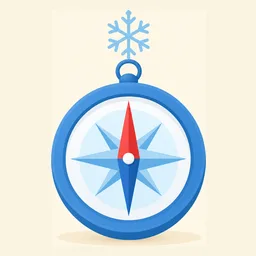
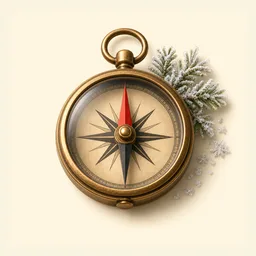
Continue targeted 1-4 grade art review

diff --git a/docs/proposals/art-review-1-4.md b/docs/proposals/art-review-1-4.md
@@ -13,9 +13,9 @@
 | Класс | Скрининг | Приоритет дальнейшей проверки/замены |
 |---|---|---|
 | 1 | Наиболее цельная группа: персонажи, животные и предметы в основном уже тёплые и объёмные. | Пока не перерисовывать пачкой. Уже обновлены/подтверждены `lisitsa`, `malchik`, `moskva`. |
-| 2 | Большинство предметов и сцен выдержаны в близком стиле, но есть отдельные более схематичные рисунки. | Точечно пересмотреть `metel` и `veter`; сначала сравнить в экране урока, не менять автоматически. `rossiya` обновлена. |
-| 3 | Самая заметная смесь: наряду с объёмными объектами встречаются условные схемы и пиктограммы. | Следом проверить `chernyy`, `sever`, `vostok`, `vokrug`, `potom`. `pogoda`, `zarya` и `bereg` уже обновлены. Для абстрактных слов не делать ребусы: при слабом визуальном решении лучше оставить картинку, чем исказить значение. |
-| 4 | Предметные сцены часто хорошо читаются, но календарные/временные/количественные понятия местами представлены схемами. | Следом проверить `vchera`, `segodnya`, `zavtra`, `dvenadtsat`, `odinnadtsat`, `shestnadtsat`, `dvadtsat`. `bilet`, `gazeta`, `kalendar`, `rasstoyanie` уже обновлены. |
+| 2 | Большинство предметов и сцен выдержаны в близком стиле, но есть отдельные более схематичные рисунки. | `metel` и `veter` обновлены: метель получила ночную снежную сцену, ветер — наклонённое дерево с уносимыми листьями. `rossiya` обновлена отдельно. |
+| 3 | Самая заметная смесь: наряду с объёмными объектами встречаются условные схемы и пиктограммы. | `chernyy`, `vokrug`, `sever`, `vostok` обновлены. `potom` проверено и оставлено: последовательность «сначала/потом» здесь яснее диаграммой, а новая сцена стала бы ребусом. |
+| 4 | Предметные сцены часто хорошо читаются, но календарные/временные/количественные понятия местами представлены схемами. | `vchera`, `segodnya`, `zavtra` и числовые наборы `dvenadtsat`, `odinnadtsat`, `shestnadtsat`, `dvadtsat` просмотрены в полном размере и оставлены: объёмные карточки и счётные кубики передают значения точнее, чем декоративная сцена. `bilet`, `gazeta`, `kalendar`, `rasstoyanie` обновлены. |
 
 Списки в последних колонках — **короткий список для следующего прицельного раунда**, а не окончательное решение о замене. Проверять нужно и семантическую ясность: например, условная пиктограмма иногда лучше украшенного, но непонятного 3D-ребуса.
 
@@ -29,9 +29,13 @@
 * `bilet`, `gazeta`, `kalendar` — объёмные понятные предметы;
 * `pogoda`, `zarya` — небольшие выразительные 3D-сцены;
 * `rasstoyanie` — макет двух городков, соединённых измерительной лентой;
-* `bereg` — 3D-диорама речного берега.
+* `bereg` — 3D-диорама речного берега;
+* `chernyy` — чёрный школьный рюкзак в контексте слова;
+* `vokrug` — ребёнок среди окружающих сосен;
+* `sever`, `vostok` — объёмные компасы с различимыми северной стрелкой/зимним инеем и восточным рассветом;
+* `metel`, `veter` — снежная ночная сцена и согнутое ветром дерево.
 
-Все 13 WebP в `public/words/` имеют размер 256×256 и весят меньше 20 КБ. Кандидаты `sever` и `vostok` не приняты: при сборке у них оставался заметный квадратный фон, поэтому старые файлы сохранены. Их можно пересмотреть с другими исходниками. Исходники генерации хранятся в игнорируемой папке `images-src/gen/`. Покрытие классов не изменилось: 1–4 остаются 100%.
+Первые варианты для `sever` и `vostok` были отклонены из-за цветного квадратного фона; приняты только после пересборки на ровном фоне пака. Все 19 WebP в `public/words/` имеют размер 256×256 и весят меньше 20 КБ. Кандидаты `sever` и `vostok` не приняты: при сборке у них оставался заметный квадратный фон, поэтому старые файлы сохранены. Их можно пересмотреть с другими исходниками. Исходники генерации хранятся в игнорируемой папке `images-src/gen/`. Покрытие классов не изменилось: 1–4 остаются 100%.
 
 ## Проверки
 

diff --git a/docs/RELEASE-0.118.8.md b/docs/RELEASE-0.118.8.md
@@ -1,0 +1,26 @@
+# 0.118.8 — Ещё две точечные замены в иллюстрациях 1–4 классов
+
+Продолжен визуальный аудит по `docs/proposals/art-review-1-4.md`.
+
+## Что изменилось
+
+* `chernyy`: вместо плоской палитры — чёрный школьный рюкзак из предложения.
+* `vokrug`: вместо пиктограммы дерева с орбитой — ребёнок в окружении сосен.
+* `sever` и `vostok`: разные объёмные компасы; первые варианты с квадратным
+  фоном отклонены, в пак попали только версии на ровном кремовом фоне.
+* `metel` и `veter`: снежная ночная сцена и согнутое ветром дерево вместо
+  плоских рисунков.
+* `potom`, `vchera`, `segodnya`, `zavtra` и числовые кубики повторно проверены
+  и оставлены: их ясные обучающие схемы лучше потенциальных ребусов.
+* Отчёт аудита и арт-план обновлены; автоматической перерисовки набора нет.
+
+Новые файлы — 256×256 WebP, каждый меньше 20 КБ.
+
+## Проверки
+
+* `npm run content:check`
+* `node scripts/image-coverage.mjs` — 1–4 классы остаются со 100% покрытием.
+* `npm run typecheck`
+* `npm run build`
+* `npm run test:release`
+* `npm run release:check -- origin/main`
